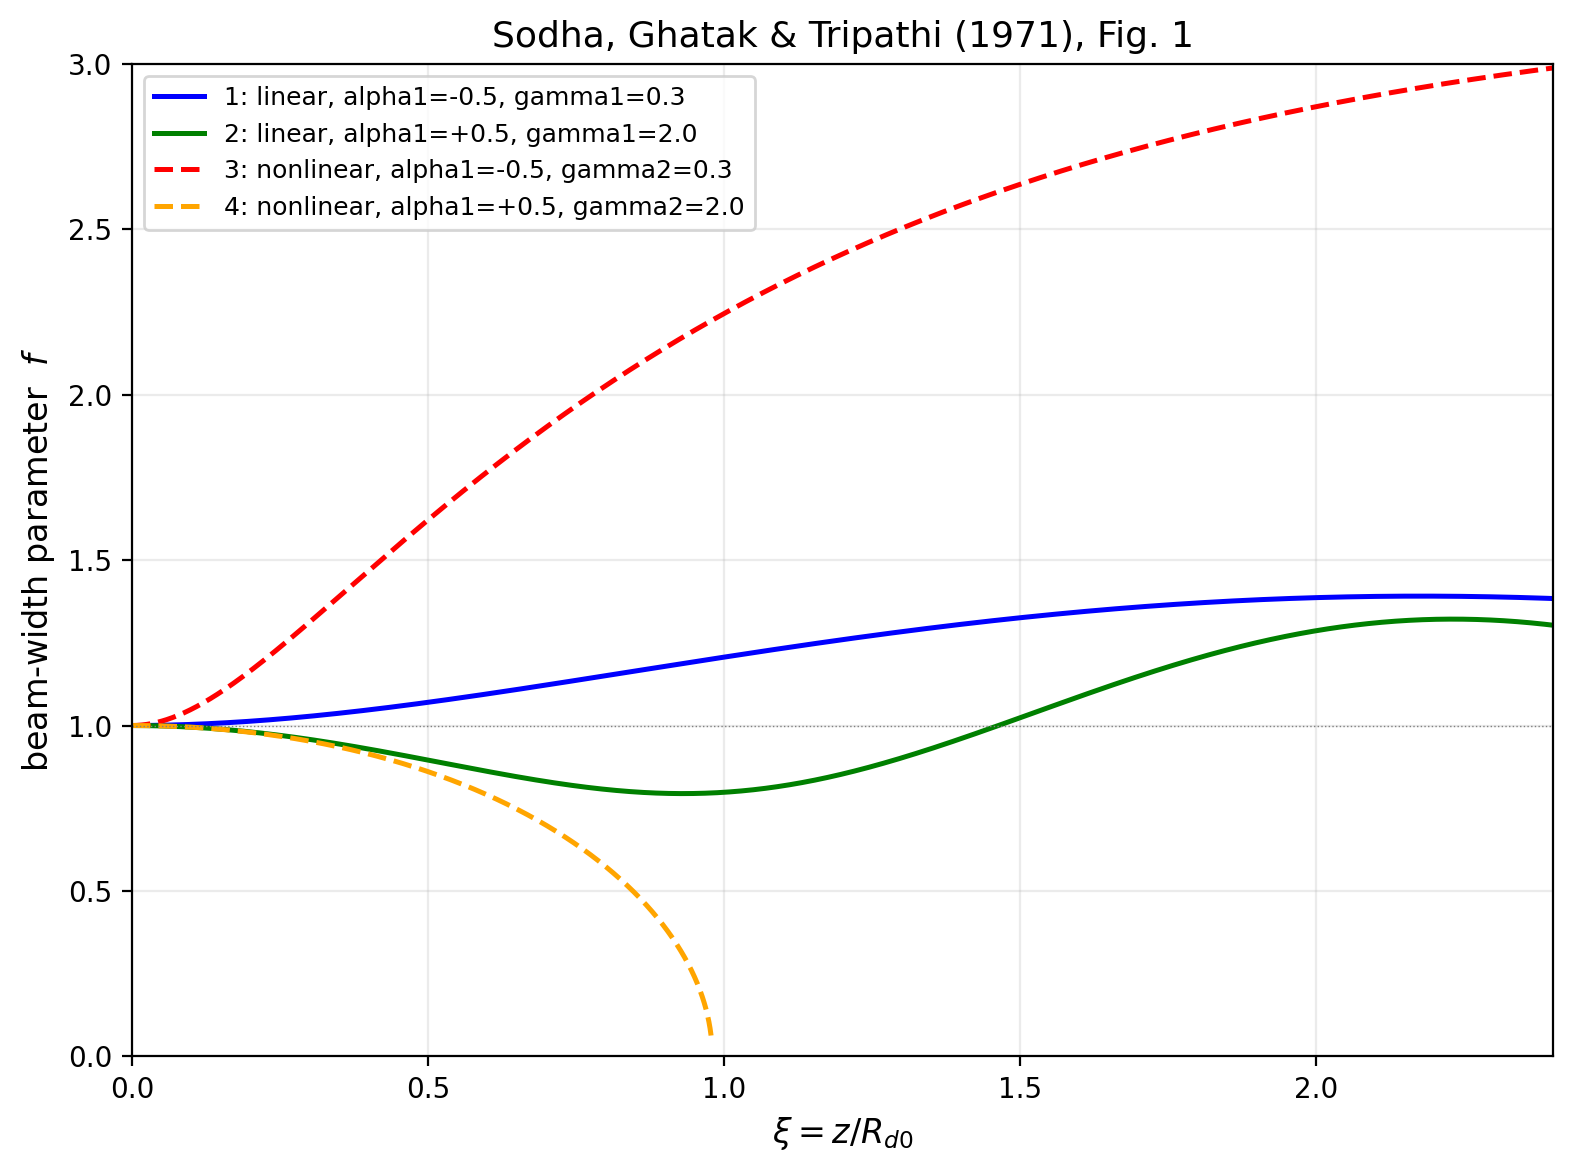
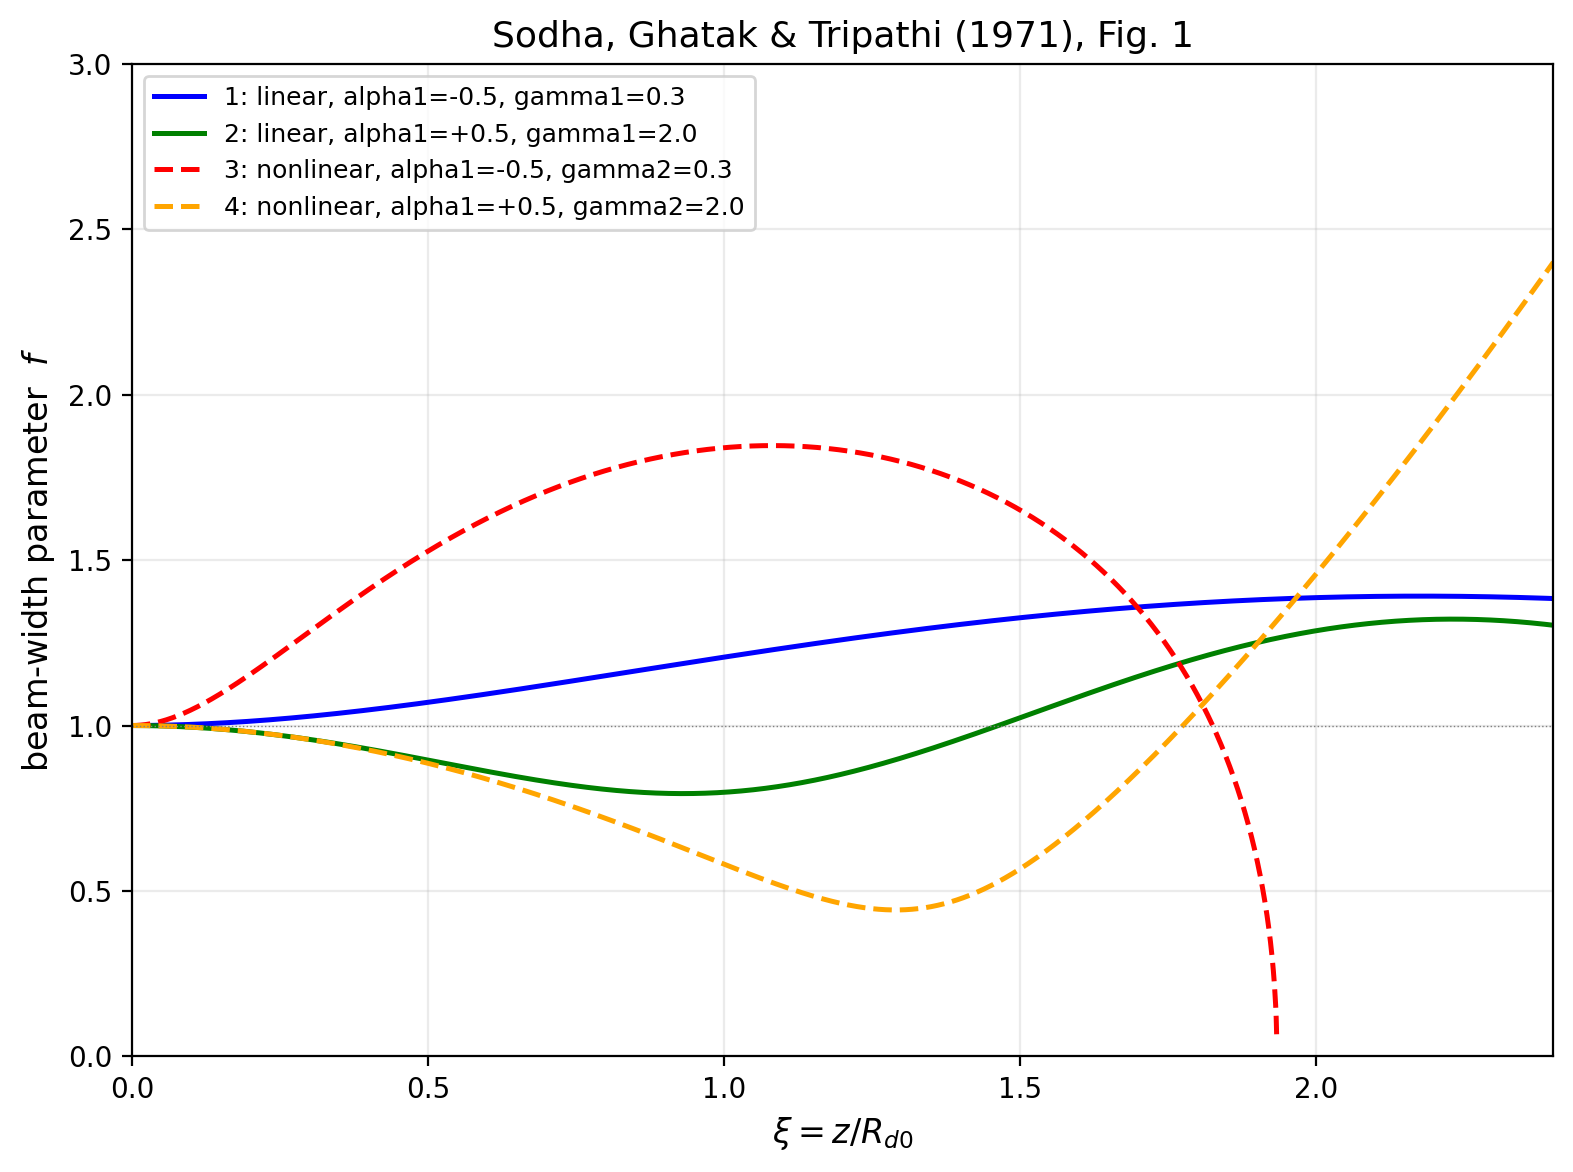
Fixing non - linear, focusing term for Curve 3 and Curve 4
After reproducing the codes, it can be inferred from the graph that Sodha et al. Fig. 1 has set the value of the real part of the unperturbed background permittivity is fixed at z = 0 for Curve 3 and Curve 4, i.e. for the nonlinear wave equation in E. Hence, change in the exponential power in the focusing term.

diff --git a/Sodha_1971_figure1.py b/Sodha_1971_figure1.py
@@ -25,7 +25,7 @@ def rhs(xi, y, alpha1, alpha2, alpha3, gamma, mode):
     if mode == "linear":
         focusing = gamma * f * np.exp((alpha1 - alpha3) * xi)
     else:
-        focusing = (gamma / f**3) * np.exp((2 * alpha1 - alpha2) * xi)
+        focusing = (gamma / f**3) * np.exp((alpha1 - alpha2) * xi)
     fpp = 0.5 * alpha1 * fp + diffraction - focusing
     return [fp, fpp]
 
